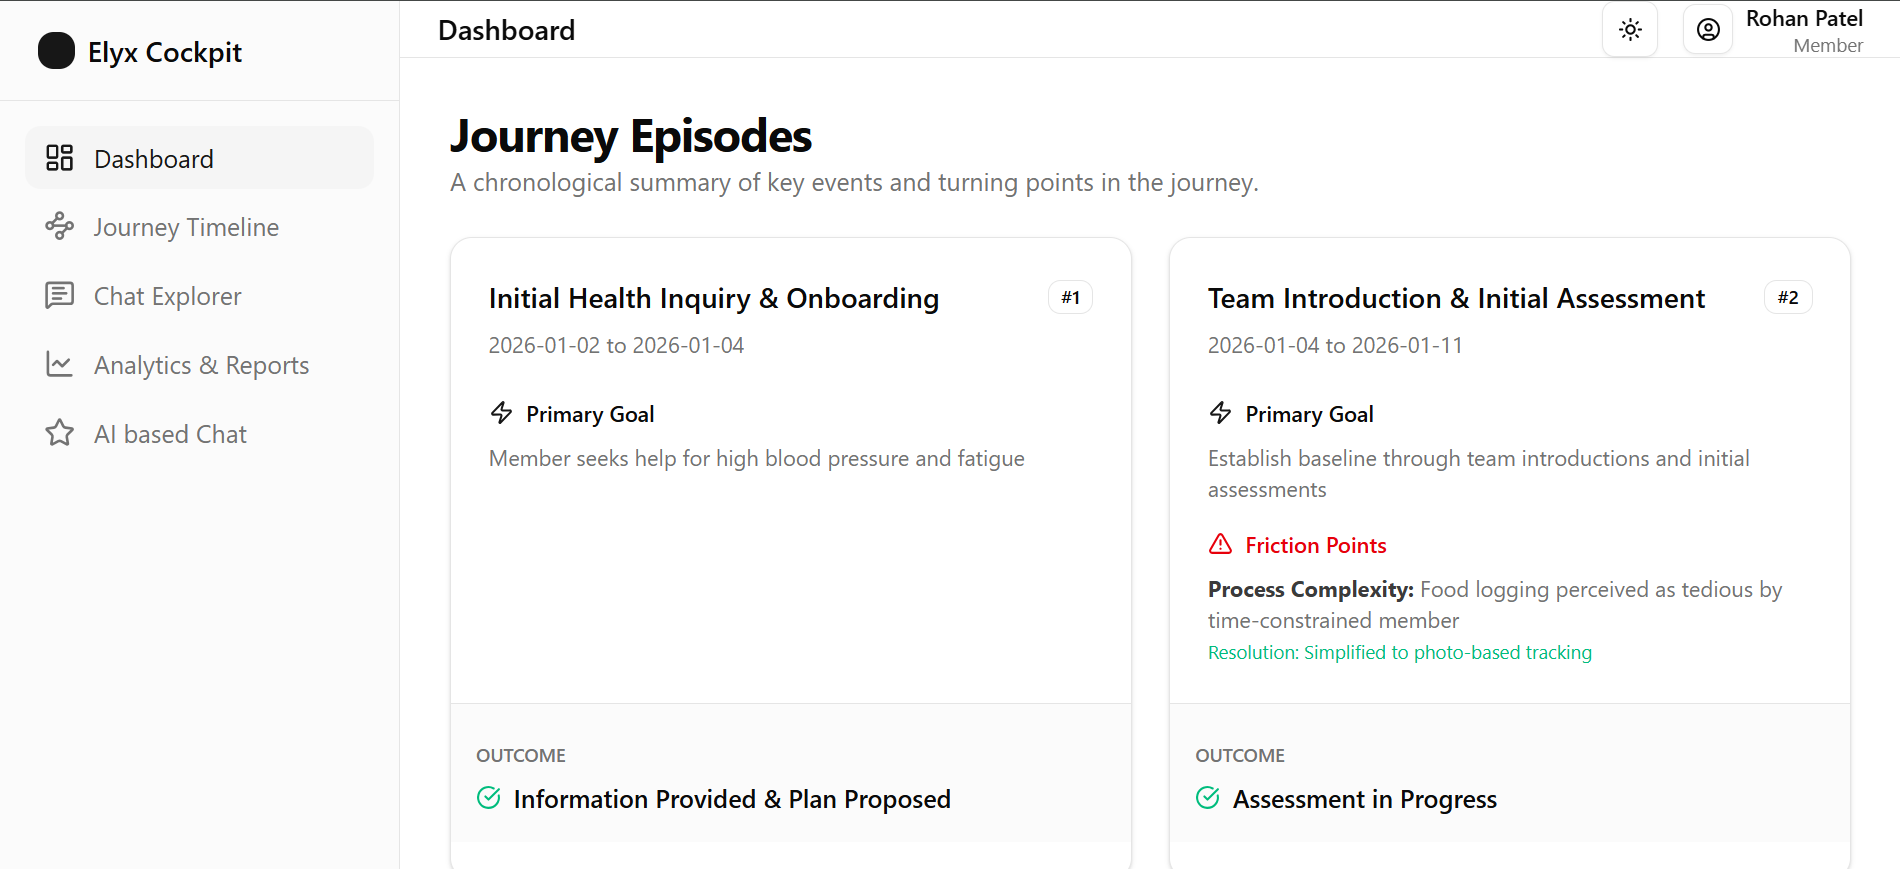
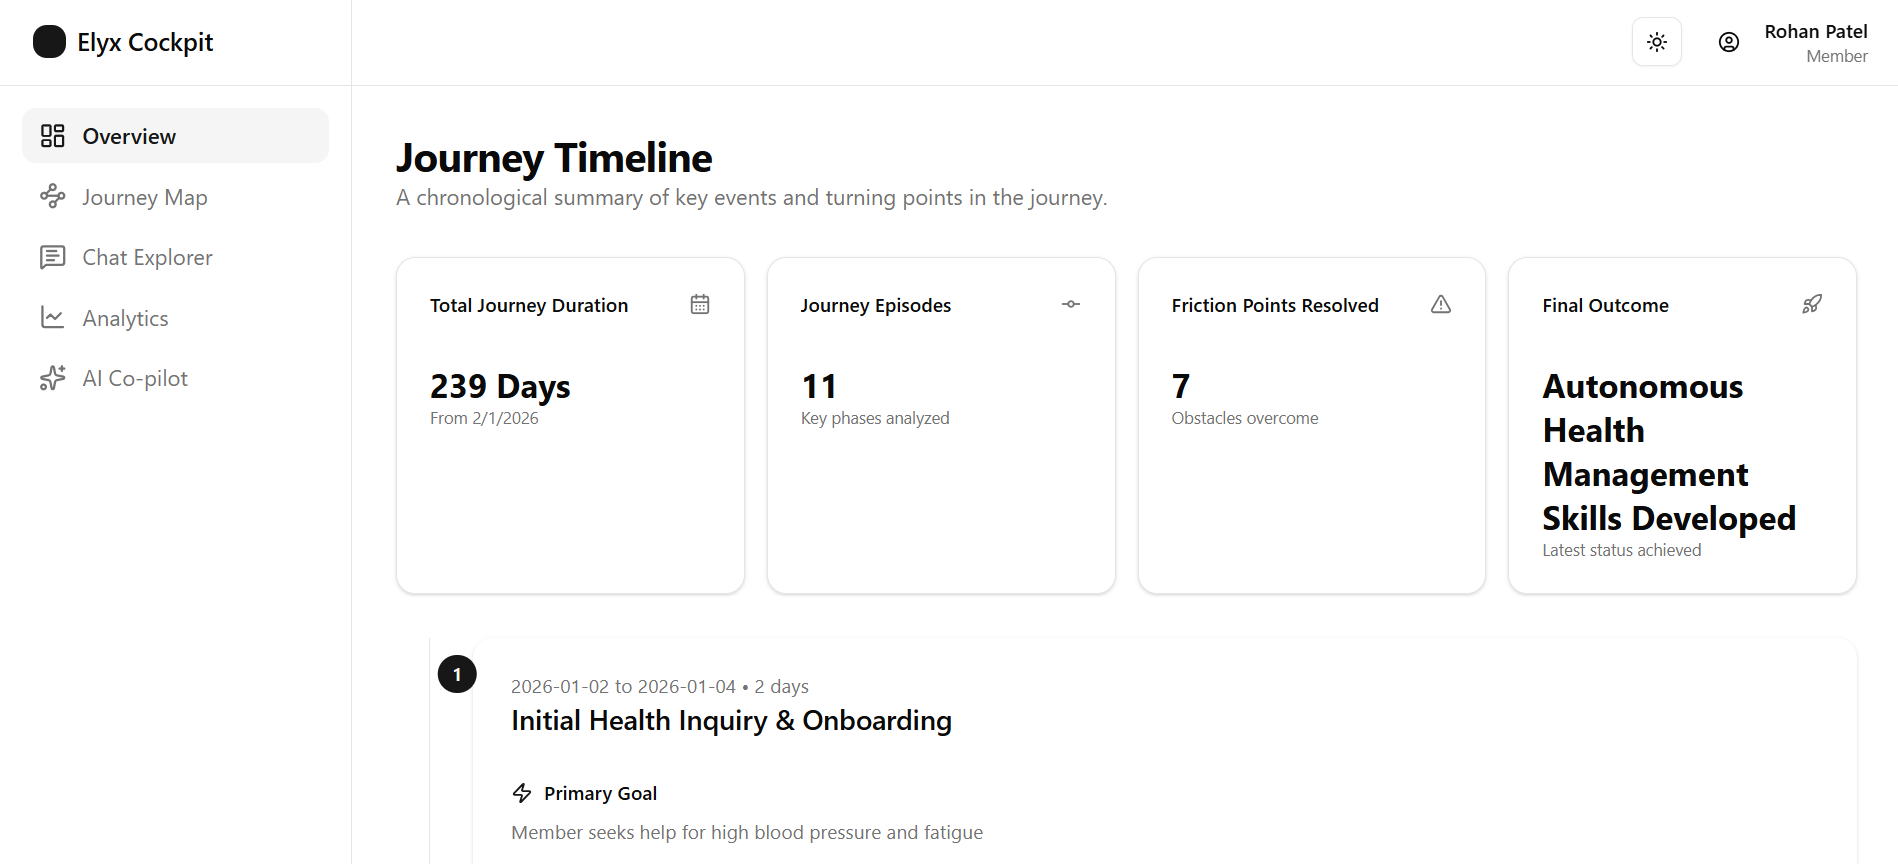
Chore: Update Images and readme

diff --git a/app/components/layout/header.tsx b/app/components/layout/header.tsx
@@ -24,7 +24,7 @@ export function Header({ memberName }: { memberName: string }) {
             </Button>
           </SheetTrigger>
           <SheetContent side="left" className="flex flex-col">
-            <nav className="grid gap-2 text-lg font-medium">
+            <nav className="grid gap-2 text-lg py-5 pl-2 font-medium">
               <Link
                 href="/dashboard"
                 className="flex items-center gap-2 text-lg font-semibold mb-4"
@@ -32,7 +32,7 @@ export function Header({ memberName }: { memberName: string }) {
                 <div className="h-6 w-6 rounded-lg bg-primary" />
                 <span>Elyx Cockpit</span>
               </Link>
-              {navItems.map((item:any) => (
+              {navItems.map((item: any) => (
                 <Link
                   key={item.label}
                   href={item.href}
@@ -56,11 +56,11 @@ export function Header({ memberName }: { memberName: string }) {
       <div className="flex-1" />
 
       {/* --- Right-side Actions --- */}
-      <div className="flex items-center gap-4">
+      <div className="flex items-center gap-4 py-5">
         <ThemeToggle />
         <div className="flex items-center gap-2">
           <Button variant="ghost" size="icon" className="h-9 w-9 rounded-full">
-            <CircleUser className="h-5 w-5" />
+            <CircleUser className="h-5 w-5 " />
             <span className="sr-only">User Profile</span>
           </Button>
           <div className="hidden flex-col text-right sm:flex">

diff --git a/README.md b/README.md
@@ -1,27 +1,89 @@
 # Elyx Hackathon (Sloth)
+
 ![Landing Page](./docs/Images/Landing%20Page.png)
-This repository is our submission for the Pclub IITK X Elyx Hackathon. Here is the [problem statement](docs/Elyx%20Life%20-%20Hackathon%20Problem%20Statement%20.pdf). 
 
-This readme is WIP and would reflect our various approaches that we take and the thought that goes behind those approaches and specifics.
+This repository contains our submission for the Pclub IITK x Elyx Hackathon. Elyx Cockpit is a decision-intelligence platform designed to visualize and analyze a member's complex, year-long health journey, providing not just insights, but auditable, evidence-based traceability for every decision made.
 
+This readme documents the architectural choices, technical implementations, and the core philosophy behind our approach.
+
+## Our Core Philosophy
+
+From the start, our goal was to build something scalable, useful, and insightful that goes a little bit beyond just the problem statement. We didn't just want to display data; we wanted to tell a story and make every insight accountable.
+
+### Narrative-Driven Visualization
+We believe that a member's journey is a story, not just a collection of data points. Every interface, from the overview dashboard to the custom-built journey map, is designed to present information in a narrative context. We use dynamic animations, progressive disclosure, and logical flows to guide the user through the member's progress, challenges, and successes over time.
+
+### Accountable, Evidence-Based AI
+The core challenge of the PS is to understand the "why" behind any decision. We took this to heart by building an AI Co-pilot that doesn't just give answers, but proves them. Our RAG pipeline is engineered to link every claim back to the specific message or data point that serves as its evidence, creating a system of radical transparency and trust.
+
+## Tech Stack
+
+-   **Framework:** Next.js 14 (App Router)
+-   **UI:** React, TypeScript, Shadcn UI, Tailwind CSS
+-   **Animation:** Framer Motion
+-   **AI & Backend:** LangChain.js, Google Gemini
+-   **Vector Store:** `MemoryVectorStore` (in-memory for hackathon speed)
+-   **Styling:** PostCSS, Autoprefixer
+
+## Features Showcase
+
+Our application is a multi-faceted cockpit, with each page serving a distinct analytical purpose.
+
+#### 1. Overview: The Narrative Hub
 ![Dashboard](./docs/Images/Dashboard.png)
-![Dark Theme](./docs/Images/Dark_theme_Chat.png)
+The landing page provides a high-level, narrative summary of the entire journey.
+-   **At-a-Glance KPIs:** Key biomarker improvements and engagement metrics.
+-   **Dynamic Animations:** All elements animate into view for a polished, modern feel.
+-   **Journey Highlights:** AI-summarized "Key Turning Points" and "Sustainability Factors" to quickly understand the story.
+-   **Predictive Analysis:** A forward-looking view of success probability and potential risks.
+
+
+#### 2. Journey Map: The Interactive Timeline
+![JourneyMap](./docs/Images/JourneyMap.png)
+A bespoke, vertical timeline that visualizes the chronological flow of the member's journey episodes.
+-   **Custom Built:** We moved away from pre-built libraries to create a clean, alternating card layout inspired by professional designs.
+-   **Scroll-Triggered Animations:** Each episode card gracefully animates into view.
+-   **Progressive Disclosure:** A clean summary is presented upfront, with an accordion to reveal deeper details like key interactions and persona evolution, preventing information overload.
+-   **Seamless Drill-Down:** Each card links to a side-sheet (`Sheet`) that provides a rich, detailed view of the selected episode.
+
+#### 3. Chat Explorer: The Forensic Tool
+![ChatExplorer](./docs/Images/Dark_theme_Chat.png)
+A powerful interface for searching, filtering, and analyzing the raw `journey_log.json` data.
+-   **Advanced Filtering:** Search by keyword, sender, and role to instantly narrow down hundreds of messages.
+-   **Intelligent Scannability:** Sticky date separators are automatically injected into the message stream, making it easy to navigate long conversations.
+-   **Dynamic Insight Panel:** A context-aware side panel that shows a summary of the currently filtered view, and switches to a detailed analysis when a specific message is selected.
+-   **AI-Powered "Decision Trace":** A "Why this?" button on every message calls a dedicated API endpoint to provide AI-generated context and rationale for that specific communication.
+
+#### 4. AI Co-pilot: The Generative Interface
+![AICoPilot](./docs/Images/Rag_answer.png)
+A conversational AI, powered by our RAG pipeline, that can answer high-level questions about the entire journey.
+-   **Guided Interaction:** Suggested prompts are provided to the user to showcase the AI's capabilities and eliminate the "blank page" problem.
+-   **Rich Markdown Responses:** The AI responds with formatted text, including lists, bolding, and more, for superior readability.
+-   **Verifiable Citations:** The "wow" feature. The AI's response includes clickable citation markers `[1]` that link directly to the specific message in the Chat Explorer that was used as evidence, fulfilling the core requirement of the problem statement.
+
 ![RAG](./docs/Images/Rag_Thinking.png)
 
-## Our Goal From this Hackathon
-We want to create something good, scalable and useful for this hackathon that goes a little bit beyond just the PS.
-Through this process we would also learn and explore. 
+## Our Approach to Task 1 & 2: The RAG-Powered Backend
 
 ### Communication Message Generation (Task 1)
-As the task is to simulate 8-month long converstations we face problem of *Context Window Limitation* and *Hallucination* of the LLMs. The restrictions on this conversation mentioned in the PS provide additional problems. To tackle these we break down our task into month long simulations and preserve a state along with history (summary) to take care of continuity and above problems. Our research shows that LLMs perform best in such task through a role based approach. Also we have approached this with *zero-shot prompting* technique so as to not have a similar chat generated. 
+To simulate an 8-month conversation while avoiding *Context Window Limitation* and *Hallucination*, we broke the generation process into month-long chunks. We preserved a state summary after each month, which was fed into the prompt for the next month, ensuring continuity. This role-based, zero-shot prompting approach allowed us to generate a diverse and realistic conversation log (`journey_log.json`) and a high-level summary (`episode.json`).
+
+### The "Insight & Evidence" Architecture (Task 2)
+Our core technical insight was to treat the two generated files as distinct but connected layers of information:
+-   `journey_log.json`: The **Ground Truth**. This is the raw, immutable log of every interaction—the evidence.
+-   `episode.json`: The **Narrative Layer**. This is an AI-generated summary that provides structure and tells the story of the journey.
+
+Our RAG pipeline indexes **both** files into a `MemoryVectorStore`. This allows our AI to retrieve both fine-grained conversational details and high-level episode summaries, providing the richest possible context for any query. The `eventId` from the message log is stored in the vector metadata, which is the key to our citation feature.
 
 ## Getting Started
-Fist, Install all dependencies :
+
+First, install all dependencies:
 
 ```bash
 pnpm install
 ```
-Create an `.env` file from `.env.example` 
+
+Create an `.env.local` file from `.env.example`:
 
 ```bash
 GEMINI_API_KEY=your_google_api_key
@@ -30,11 +92,11 @@ GEMINI_API_KEY=your_google_api_key
 Then, run the development server:
 
 ```bash
-npm run dev
+pnpm dev
 ```
 
 Open [http://localhost:3000](http://localhost:3000) with your browser to see the result.
 
 ### Team
-[Coder-senpai123](https:github.com/coder-senpai123/)
-[Krishnaag23](https://github.com/krishnaag23/)
+-   [Coder-senpai123](https://github.com/coder-senpai123/)
+-   [Krishnaag23](https://github.com/krishnaag23/)
